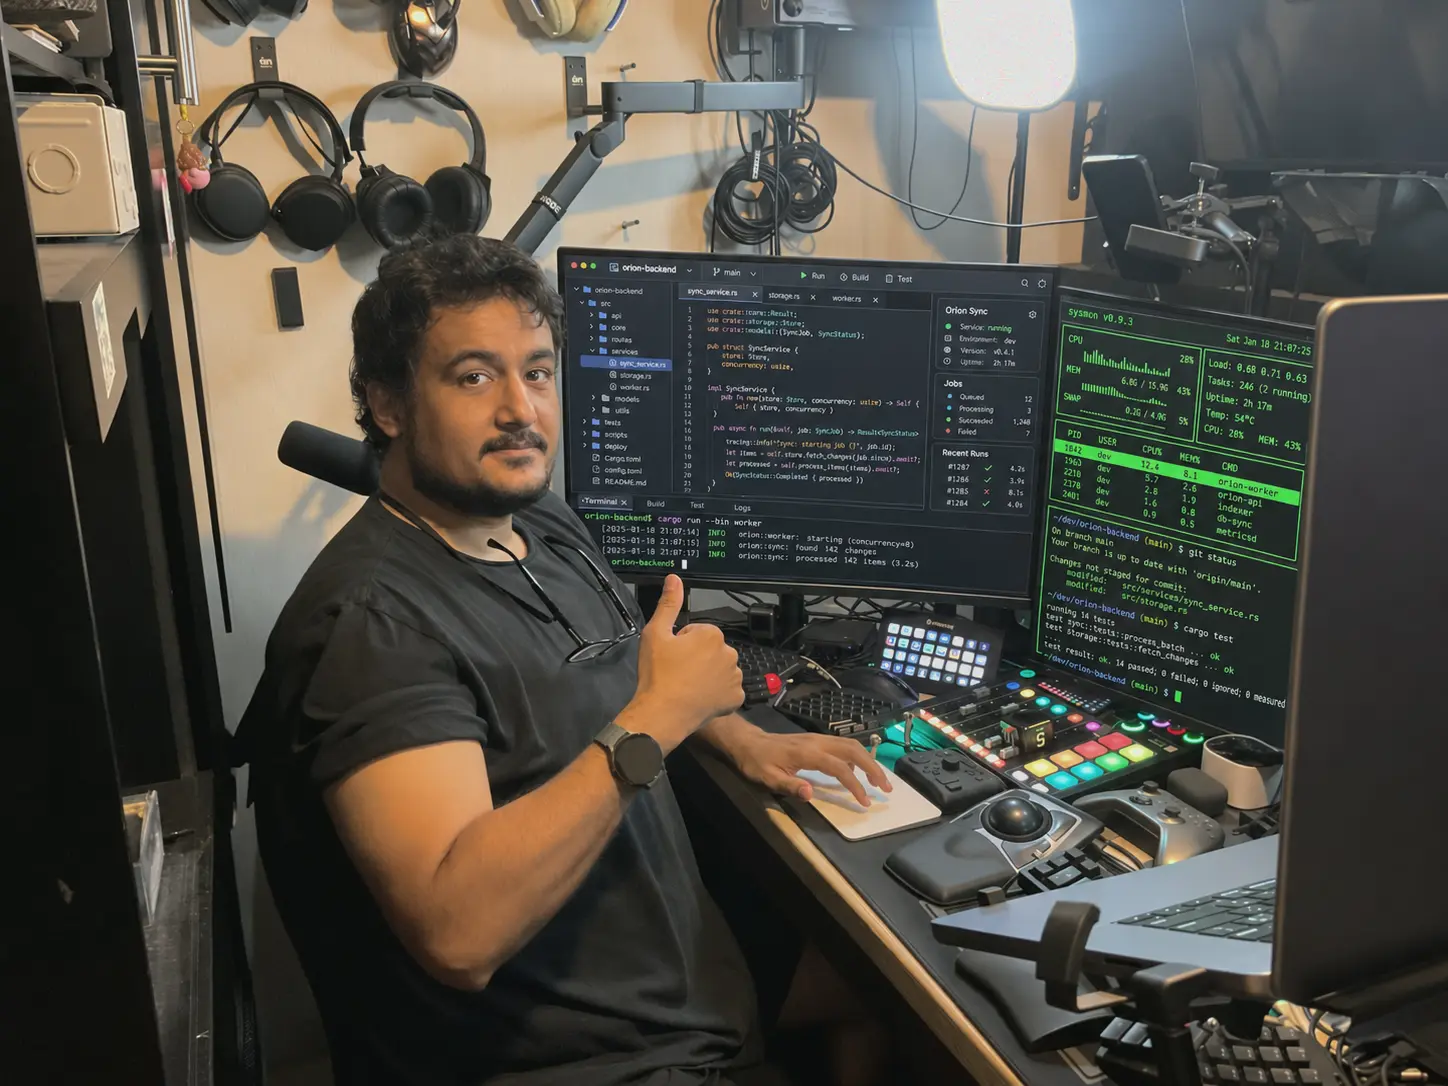
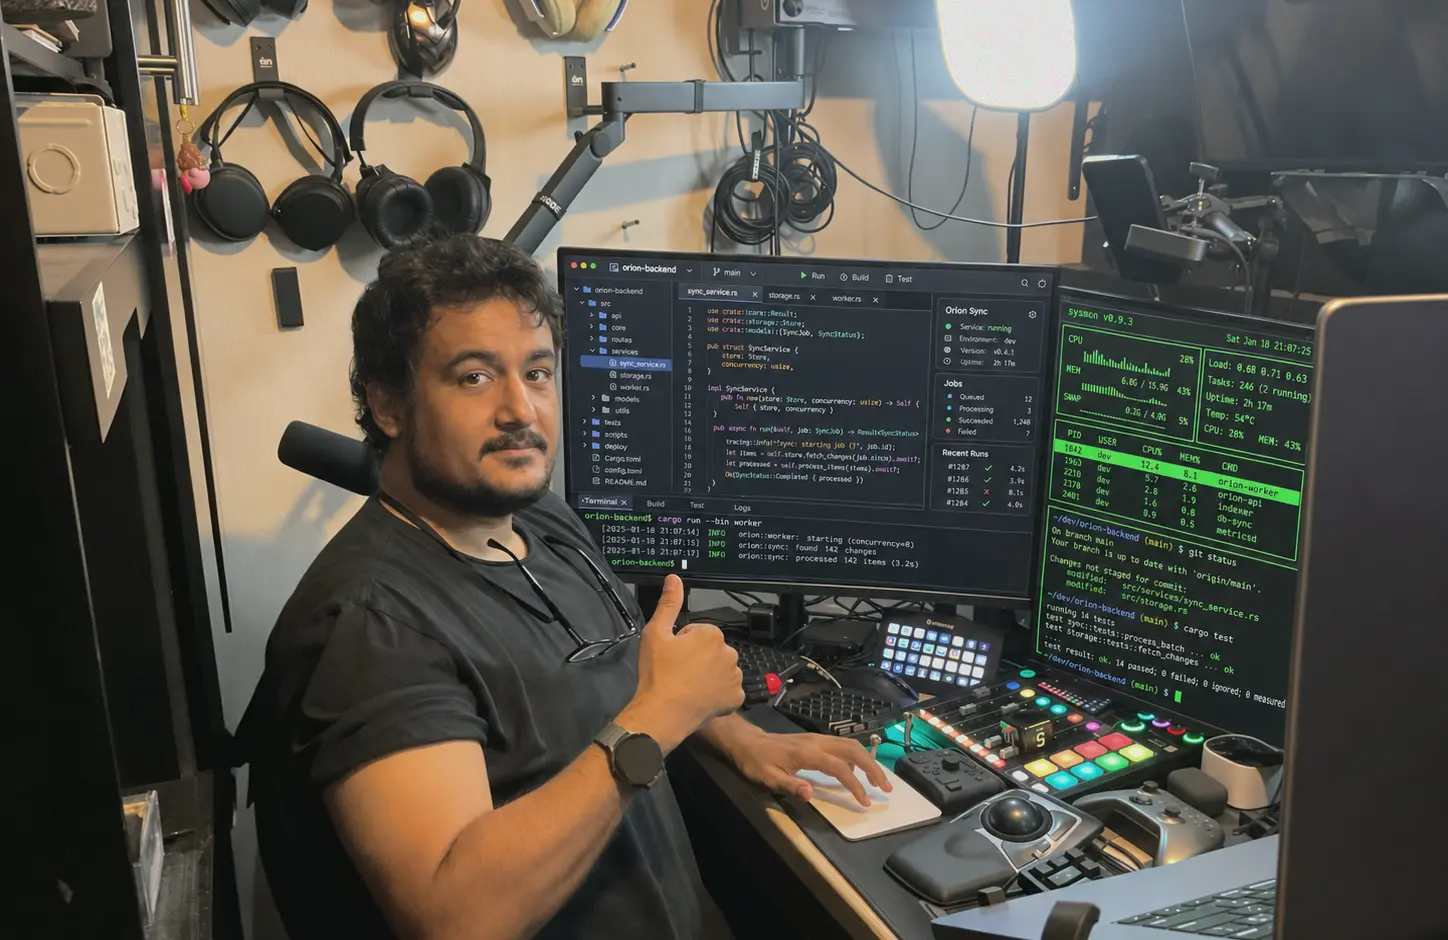
style(home): [PORT-005] Crop portrait below workstation

diff --git a/src/components/Home.tsx b/src/components/Home.tsx
@@ -133,7 +133,7 @@ export function Home() {
                     <span className="home-hero-caption">01 / BUILD · SHARE · LEARN · LEAD</span>
                     <img className="home-portrait" src="/miguel-workstation.webp"
                          alt="Miguel Enriquez at his workstation with monitors and audio gear"
-                         width="1448" height="1086" loading="lazy" decoding="async" />
+                         width="1448" height="940" loading="lazy" decoding="async" />
                 </div>
             </section>
 

diff --git a/src/components/Home.test.tsx b/src/components/Home.test.tsx
@@ -19,7 +19,7 @@ describe('home experience panels', () => {
 
     expect(portrait).toHaveAttribute('src', '/miguel-workstation.webp');
     expect(portrait).toHaveAttribute('width', '1448');
-    expect(portrait).toHaveAttribute('height', '1086');
+    expect(portrait).toHaveAttribute('height', '940');
     expect(portrait).toHaveAttribute('loading', 'lazy');
     expect(portrait).toHaveClass('home-portrait');
     expect(circuitry).not.toBeNull();
